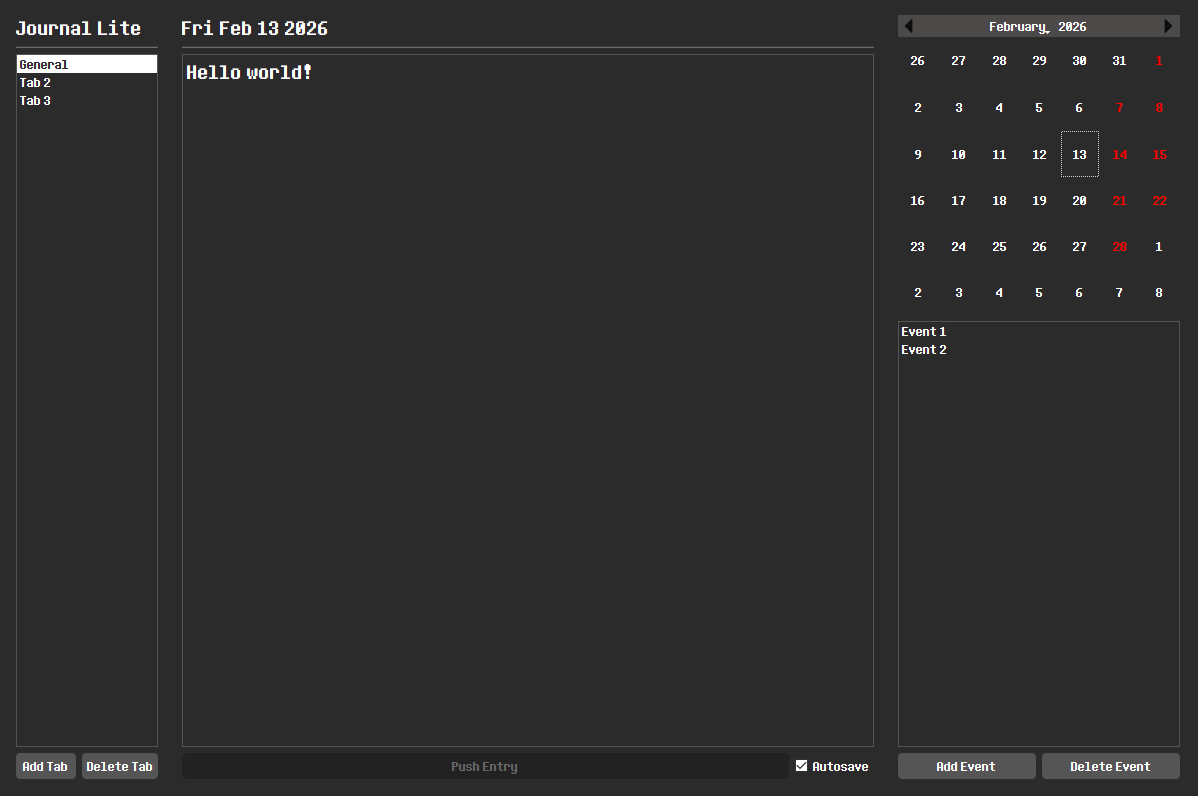
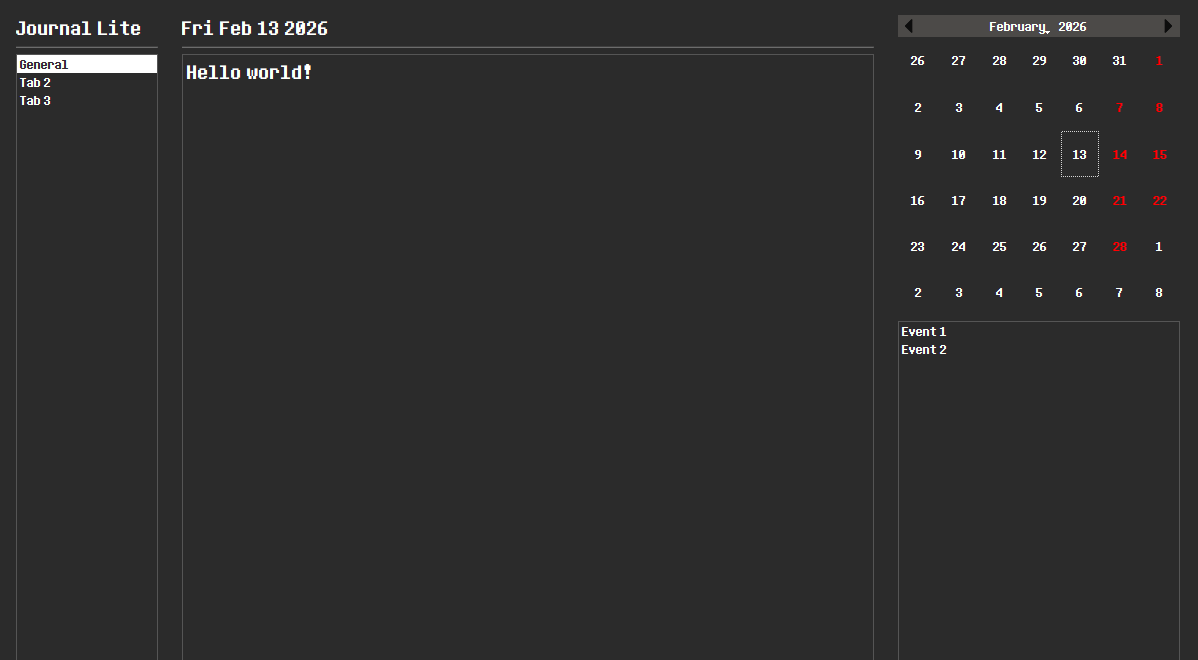
style changes and additions

diff --git a/assets/main.css b/assets/main.css
@@ -2,7 +2,7 @@
 body {
     background-color: #0f1116;
     color: #ffffff;
-    font-family: 'Segoe UI', Tahoma, Geneva, Verdana, sans-serif;
+    font-family: 'Google Sans', Tahoma, Geneva, Verdana, sans-serif;
     margin: 20px;
 }
 
@@ -18,6 +18,9 @@ body {
 }
 
 .zen-content {
+    display: flex;
+    flex-direction: column;
+    gap: 30px;
     max-width: 680px;
     margin: 0 auto;
     padding: 0 20px;
@@ -33,7 +36,7 @@ body {
 }
 
 .block-desc {
-    font-size: 30px;
+    font-size: 25px;
 }
 
 .project-container {

diff --git a/src/main.rs b/src/main.rs
@@ -1,4 +1,4 @@
-use dioxus::{html::{a::href, img}, prelude::*};
+use dioxus::{html::{a::href, h1, img}, prelude::*};
 
 #[derive(Debug, Clone, Routable, PartialEq)]
 #[rustfmt::skip]
@@ -15,7 +15,6 @@ enum Route {
 const FAVICON: Asset = asset!("/assets/favicon.ico");
 const MAIN_CSS: Asset = asset!("/assets/main.css");
 const TAILWIND_CSS: Asset = asset!("/assets/tailwind.css");
-const TEXT_WHOAMI: &str = include_str!("../assets/texts/whoami.md");
 const IMG_PR1: Asset = asset!("/assets/img/project-img1.png");
 const IMG_PR2: Asset = asset!("/assets/img/project-img2.png");
 const IMG_PR3: Asset = asset!("/assets/img/project-img3.png");
@@ -29,6 +28,13 @@ fn App() -> Element {
     rsx! {
         document::Link { rel: "icon", href: FAVICON }
         document::Link { rel: "stylesheet", href: MAIN_CSS } document::Link { rel: "stylesheet", href: TAILWIND_CSS }
+        document::Link { rel: "preconnect", href: "https://fonts.googleapis.com" }
+        document::Link { rel: "preconnect", href: "https://fonts.gstatic.com", crossorigin: "anonymous" }
+        document::Link {
+            rel: "stylesheet",
+            href: "https://fonts.googleapis.com/css2?family=Google+Sans:ital,opsz,wght@0,17..18,400..700;1,17..18,400..700&display=swap"
+        }
+
         Router::<Route> {}
     }
 }
@@ -83,9 +89,13 @@ pub fn AboutMe() -> Element {
                     class: "block-title",
                     "who am i?"
                 }
-                h1 {
+                h3 {
                     class: "block-desc",
-                    {TEXT_WHOAMI}
+                    "Hello, I'm Deniz. I develop helpful apps to solve people's problems."
+                }
+                h3 {
+                    class: "block-desc",
+                    "I've always wanted to learn more about technology and since I've started my engineering journey in 2022, I am constantly trying to learn new things and apply the things I've learned by making new projects."
                 }
             }
         }
@@ -115,6 +125,21 @@ pub fn MyWorks() -> Element {
                         link: (None) 
                     })}
 
+                    {ProjectBox(ProjectBoxProps { 
+                        title: ("Interloper - Language Learning Platform".to_string()), 
+                        description: ("A language learning platform which you can practice in with simulated environments.".to_string()), 
+                        image: (IMG_PR2), 
+                        link: (None) 
+                    })}
+
+                    {ProjectBox(ProjectBoxProps { 
+                        title: ("Journal Lite".to_string()), 
+                        description: ("A lightweight Python journaling application designed to be fast, simple, and focused on daily entries with useful productivity features.".to_string()), 
+                        image: (IMG_PR3), 
+                        link: (None) 
+                    })}
+
+
                 }
 
                 a {
@@ -134,9 +159,42 @@ pub fn FollowMe() -> Element {
         div {
             id: "followme",
             class: "page-block",
-            h1 {
-                class: "block-title",
-                "reach me"
+            div {
+                style: "display: flex; flex-direction: column; gap: 50px",
+                
+                h1 {
+                    class: "block-title",
+                    "reach me"
+                }
+                div {
+                    style: "display: flex; flex-direction: row; gap: 100px",
+                    div {
+                        style: "display: flex; flex-direction: column; gap: 20px;",
+                        h1 { 
+                            class: "block-subtitle",
+                            "my email"
+                        }
+                        p {
+                            "denizhoroz.ofcl@gmail.com"
+                        }
+                    }
+                    div {
+                        style: "display: flex; flex-direction: column; gap: 20px;",
+                        h1 {
+                            class: "block-subtitle",
+                            "my socials"
+                        }
+                        a {
+                            "github"
+                        }
+                        a {
+                            "linkedin"
+                        }
+                        a {
+                            "x"
+                        }
+                    }
+                }
             }
         }
     }
@@ -161,8 +219,15 @@ pub fn ProjectBox(props: ProjectBoxProps) -> Element {
         div {
             class: "projectbox",
 
-            img { src: props.image }
-            h3 { "{props.title}" }
+            img { 
+                style: "height: 200px; object-fit: cover;",
+                src: props.image 
+            }
+            
+            h3 { 
+                style: "font-size: 24px; font-weight: bold",
+                "{props.title}" 
+            }
             p { "{props.description}" }
         }
     }

diff --git a/assets/texts/whoami.md b/assets/texts/whoami.md
@@ -1,1 +1,3 @@
-Hello, I'm Deniz. I develop apps to help people.
+Hello, I'm Deniz. I develop helpful apps to solve people's problems. 
+
+I've always wanted to learn more about technology and since I've started my engineering journey in 2022, I am constantly trying to learn new things and make new projects.
